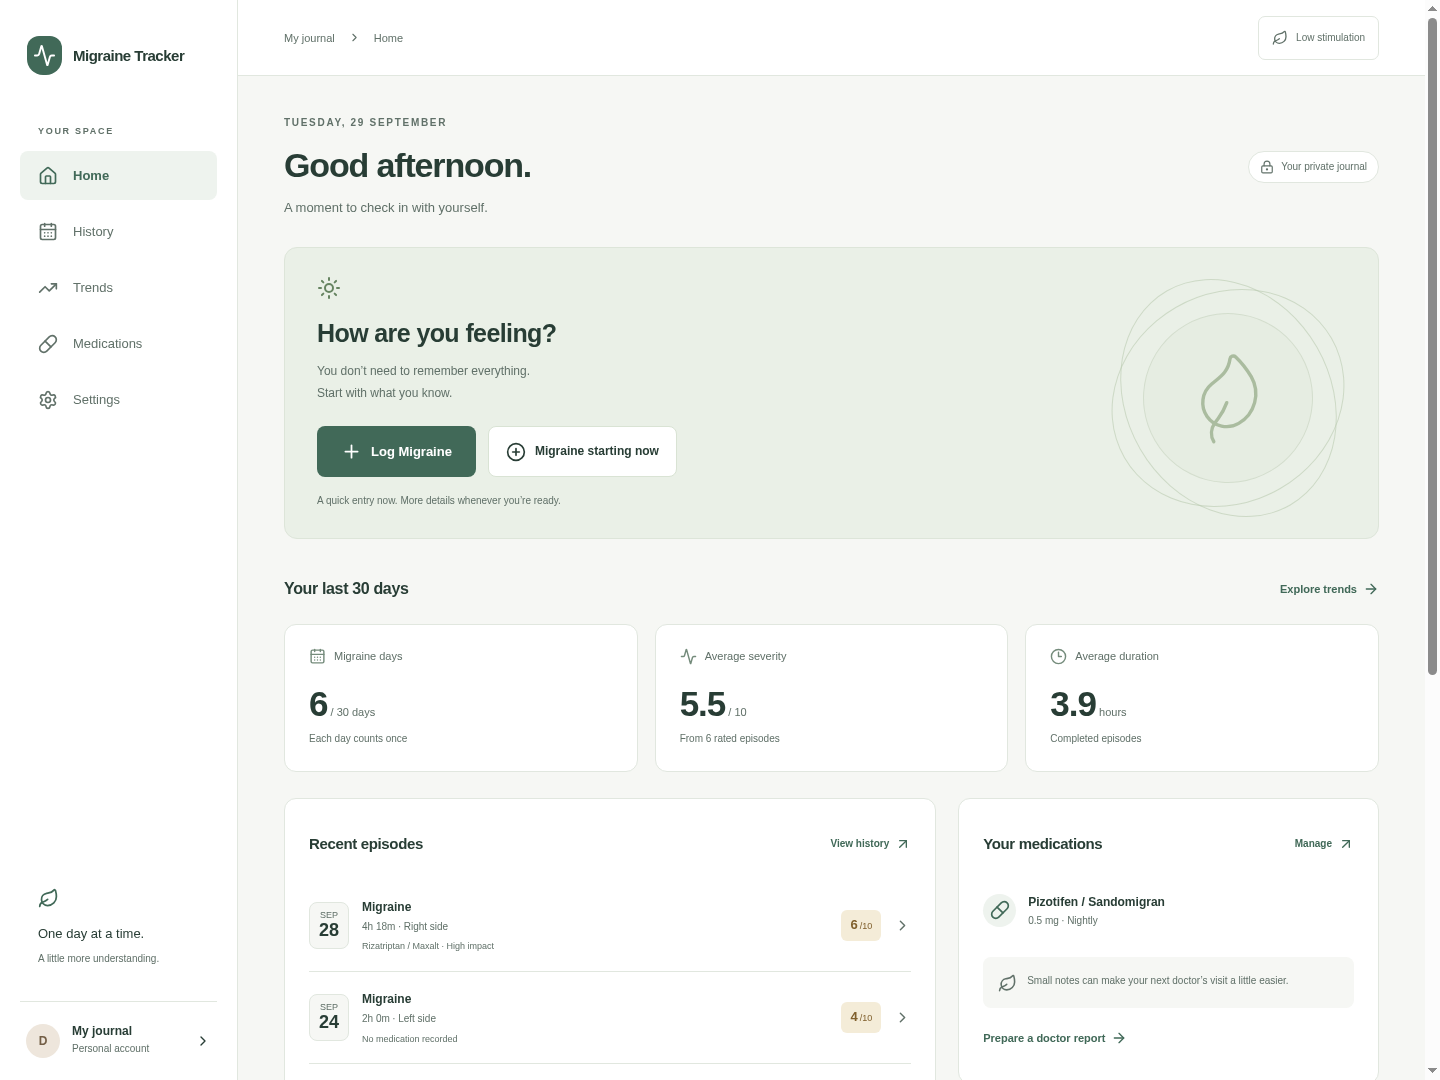
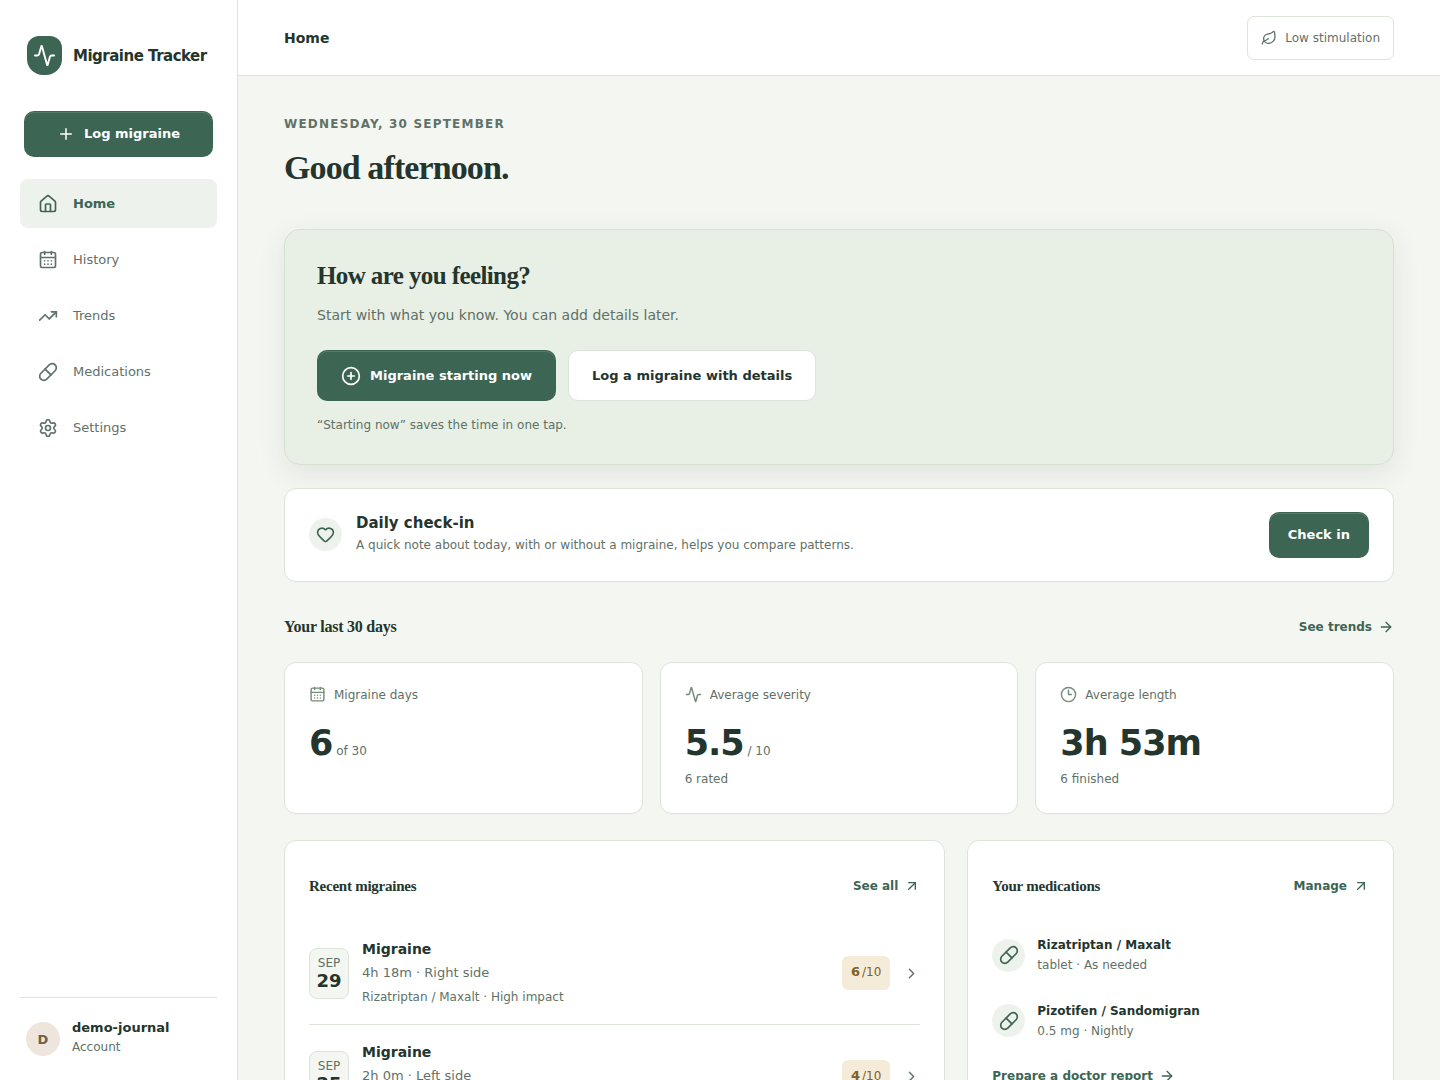
docs: refresh screenshots for the new entry flow and home screen
Screenshots use the synthetic demonstration fixture only.

Claude-Session: https://claude.ai/code/session_01BoBjkwxTu36aSXW273jkyC

diff --git a/docs/verification.md b/docs/verification.md
@@ -32,7 +32,7 @@ Verification date: 29 September 2026. All fixtures are synthetic. No actual heal
 
 - [Desktop](evidence/desktop.png)
 - [Phone](evidence/mobile.png)
-- [Low-stimulation entry](evidence/mobile-entry.png)
+- [Step-by-step migraine entry](evidence/mobile-entry.png)
 - [Dark low-stimulation mode](evidence/mobile-dark.png)
 - [Synthetic doctor report](evidence/doctor-report.pdf)
 
